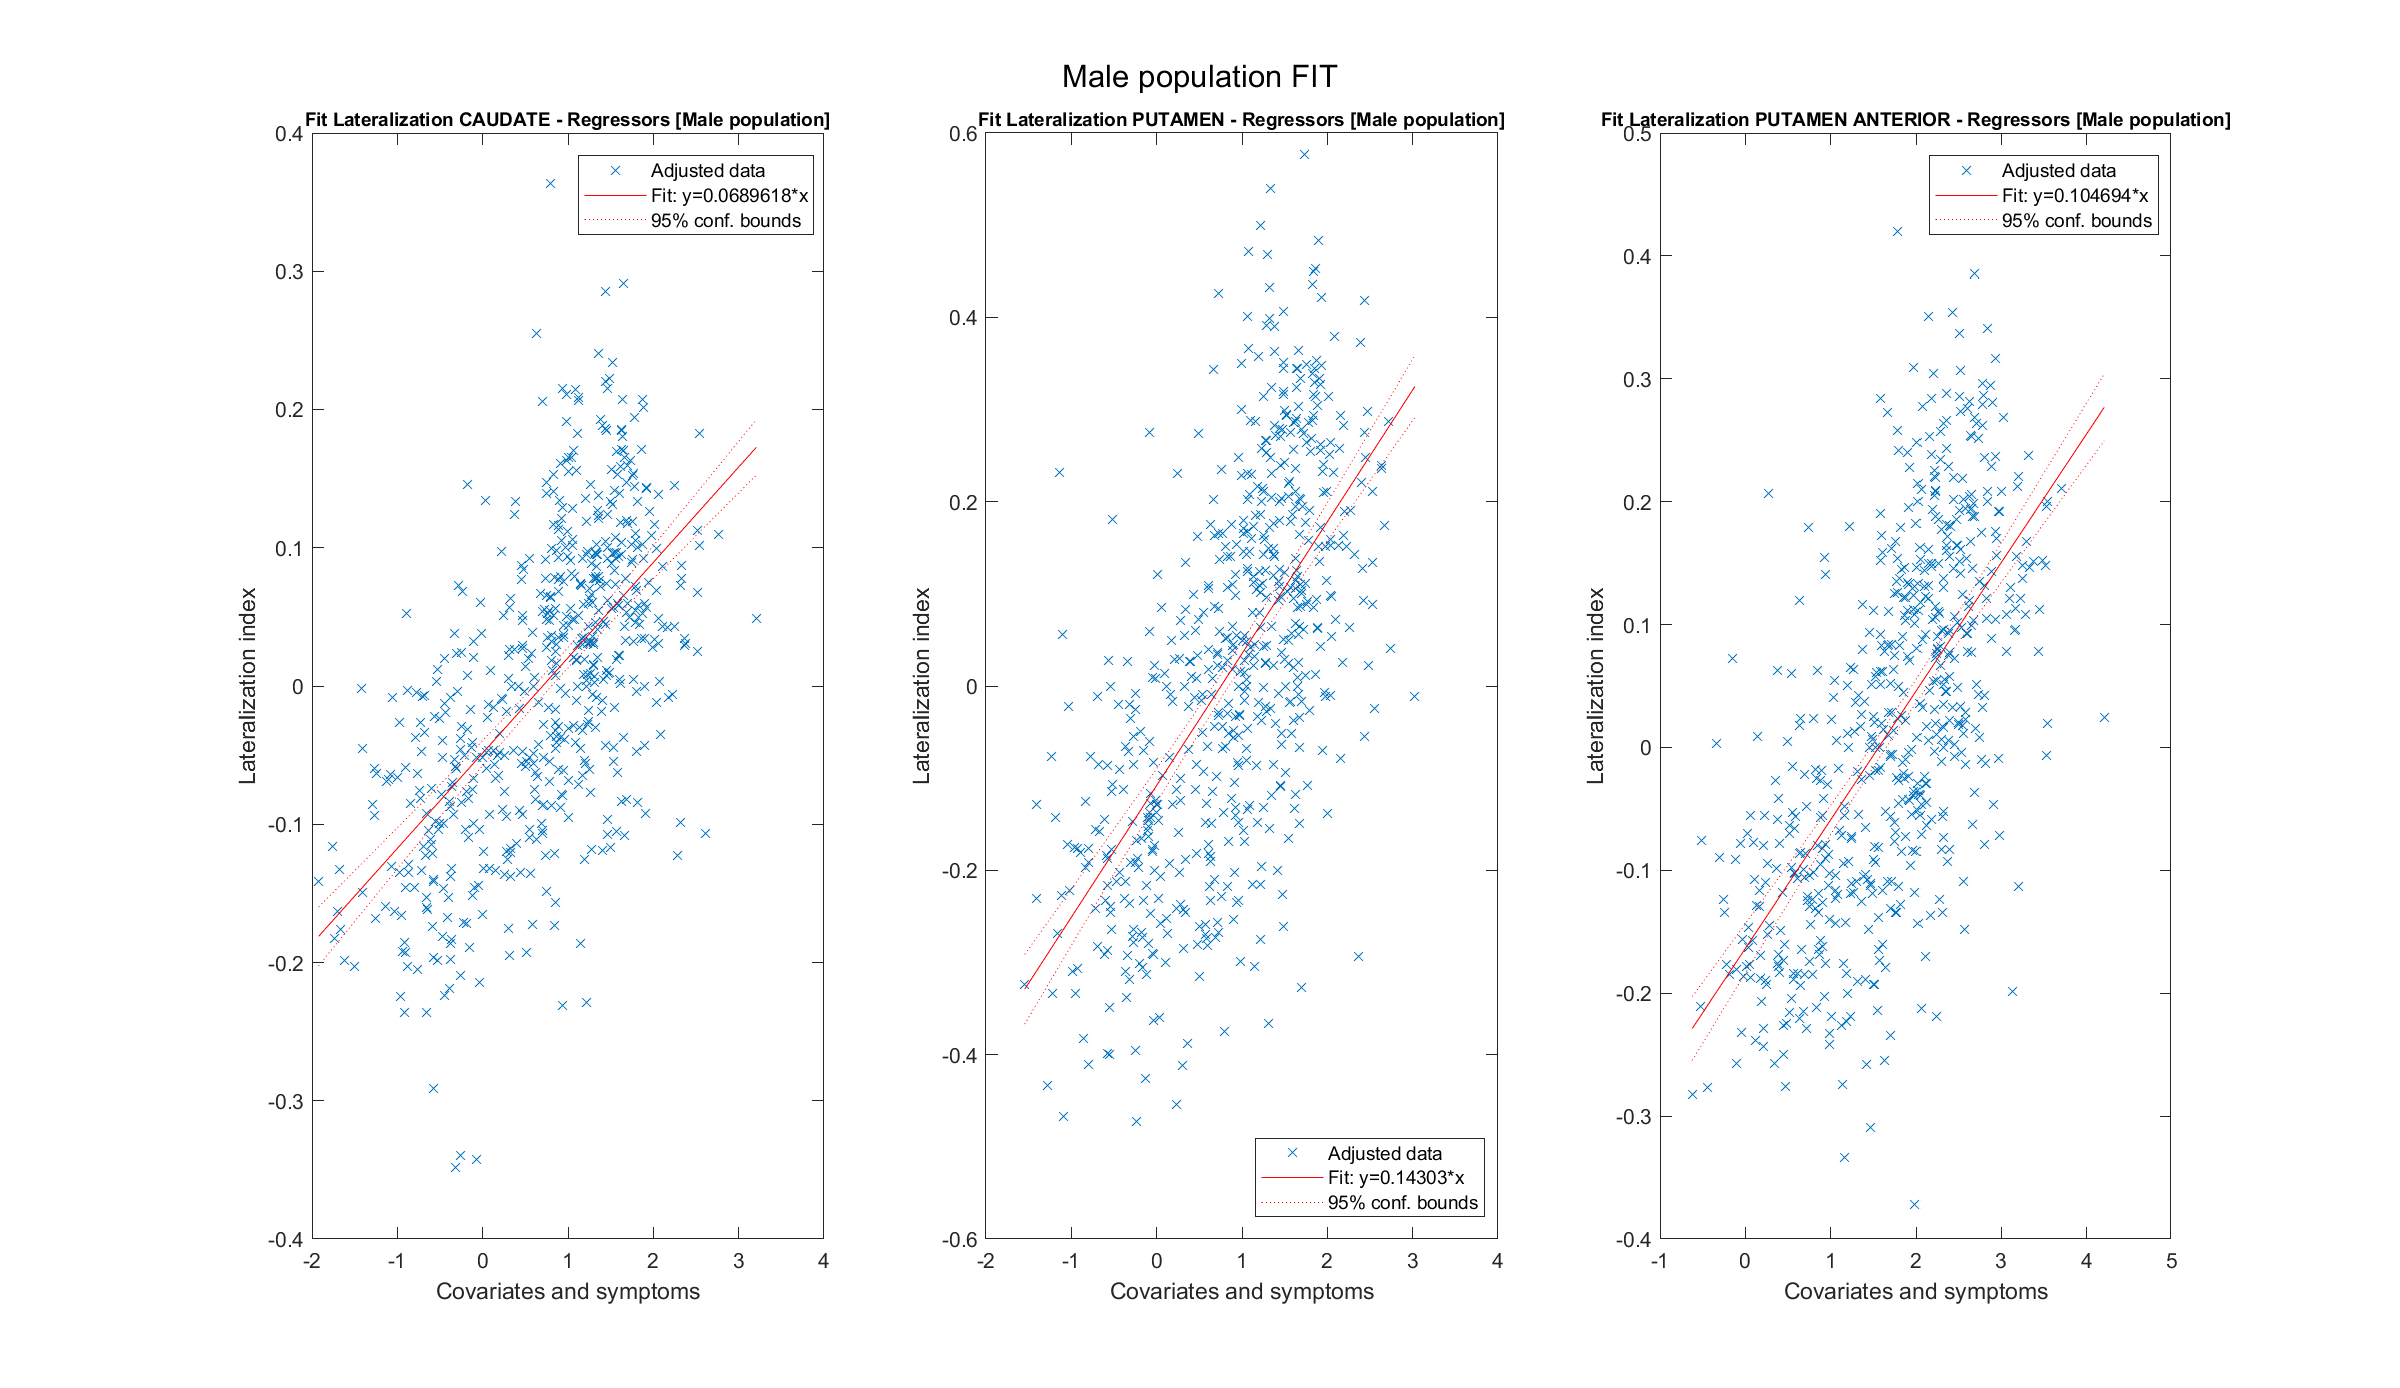
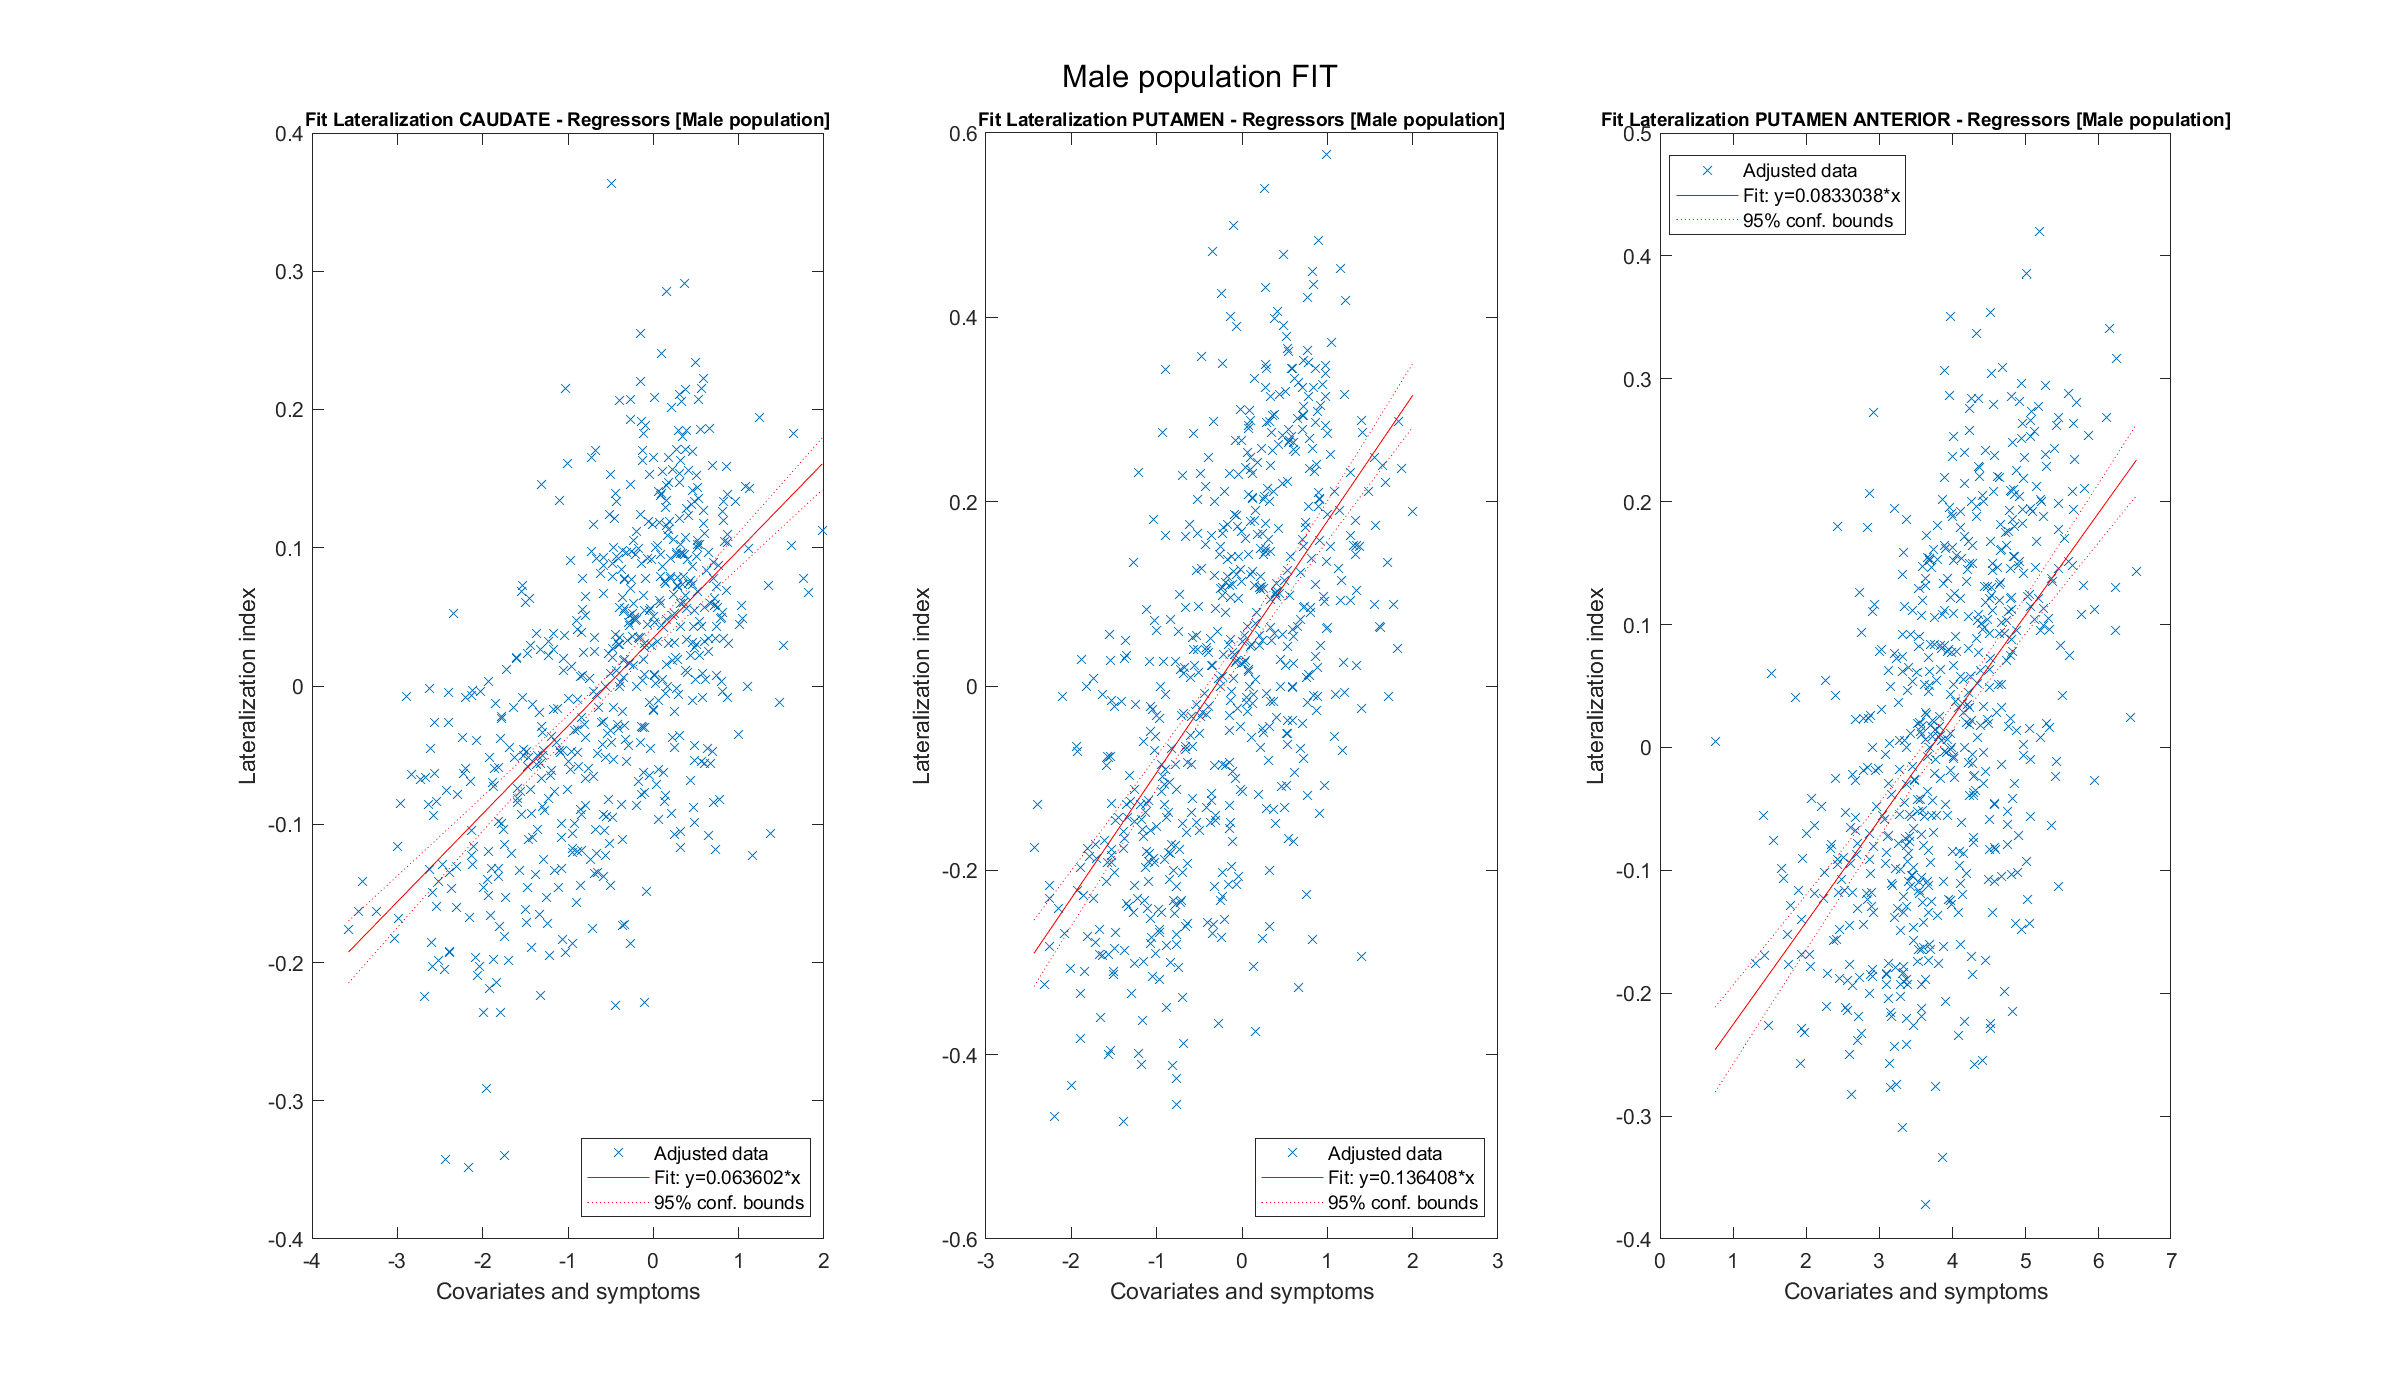
var specifiche per roi

diff --git a/hm_biomarkers_new_version.m b/hm_biomarkers_new_version.m
@@ -582,25 +582,28 @@ xticks(1:width(covariates_hc))
 xticklabels(covariates_hc.Properties.VariableNames)
 yticks(1:width(covariates_hc))
 yticklabels(covariates_hc.Properties.VariableNames)
-title("Correlation between lateralization and age, weight, height, MCATOT - HC")
+title("Correlation between lateralization and age, weight, height")
 ax = gca;
 ax.FontSize = 6;
 axis equal
+for i=1:3
+    covariates_to_save_hc.(ROIs_labels(i)) = [];
+end
 
-covariates_to_save_hc = [];
 for i =1:size(correlation.indirect.HC.R,1)
     for j = 1:size(correlation.indirect.HC.R,2)
-        if correlation.indirect.HC.p(i,j) < 0.05 && correlation.indirect.HC.R(i,j) > 0.75
-                if (j < (size(correlation.indirect.HC.R,1) -3)) && (i > (size(correlation.indirect.HC.R,1) -3)) 
+        if correlation.indirect.HC.p(i,j) < 0.05 && correlation.indirect.HC.R(i,j) > 0.5
+                if (j <= (size(correlation.indirect.HC.R,1) -3)) && (i > (size(correlation.indirect.HC.R,1) -3)) 
                     disp([covariates_hc.Properties.VariableNames{i}, ' correlated with ', covariates_hc.Properties.VariableNames{j}])
-                    covariates_to_save_hc = [covariates_to_save_hc,  convertCharsToStrings(covariates_hc.Properties.VariableNames{j})];
+                    covariates_to_save_hc.(ROIs_labels(i-3)) = [covariates_to_save_hc.(ROIs_labels(i-3)),  convertCharsToStrings(covariates_hc.Properties.VariableNames{j})];
                 end
        end
     end
 end
 
-covariates_to_save_hc = unique(covariates_to_save_hc);
-
+for i=1:3
+    covariates_to_save_hc.(ROIs_labels(i))  = unique(covariates_to_save_hc.(ROIs_labels(i)));
+end
 %%   - HC - symptoms data
 idx_symptoms = [34, 55, 94, 27:54, 61:93,158]; 
 symptoms_hc = data_hc(:, idx_symptoms); % age, height, weight, mcatot
@@ -623,19 +626,27 @@ ax = gca;
 ax.FontSize = 6;
 axis equal
 
-symptoms_to_save_hc = [];
+for i=1:3
+    symptoms_to_save_hc.(ROIs_labels(i)) = [];
+end
+
+
 for i =1:size(correlation.symptoms.HC.R,1)
     for j = 1:size(correlation.symptoms.HC.R,2)
-        if correlation.symptoms.HC.p(i,j) < 0.05 && correlation.symptoms.HC.R(i,j) > 0.75
-                if (j < (size(correlation.symptoms.HC.R,1) -3)) && (i > (size(correlation.symptoms.HC.R,1) -3)) 
+        if correlation.symptoms.HC.p(i,j) < 0.05 && correlation.symptoms.HC.R(i,j) > 0.5
+                if (j <= (size(correlation.symptoms.HC.R,1) -3)) && (i > (size(correlation.symptoms.HC.R,1) -3)) 
                     disp([symptoms_hc.Properties.VariableNames{i}, ' correlated with ', symptoms_hc.Properties.VariableNames{j}])
-                    symptoms_to_save_hc = [symptoms_to_save_hc,  convertCharsToStrings(symptoms_hc.Properties.VariableNames{j})];
+                    symptoms_to_save_hc.(ROIs_labels(size(correlation.symptoms.HC.R,1) -i+1)) = [symptoms_to_save_hc.(ROIs_labels(size(correlation.symptoms.HC.R,1) -i+1)),  convertCharsToStrings(symptoms_hc.Properties.VariableNames{j})];
                 end
        end
     end
 end
 
-symptoms_to_save_hc = unique(symptoms_to_save_hc);
+for i=1:3
+    symptoms_to_save_hc.(ROIs_labels(i))  = unique(symptoms_to_save_hc.(ROIs_labels(i)));
+end
+
+
 
 %%  - PD - indirect data
 idx_tot = [idx_covariates,idx_symptoms];
@@ -659,19 +670,26 @@ ax = gca;
 ax.FontSize = 6;
 axis equal
 
-covariates_to_save_pd = [];
+for i=1:3
+    covariates_to_save_pd.(ROIs_labels(i)) = [];
+end
+
 for i =1:size(correlation.indirect.PD.R,1)
     for j = 1:size(correlation.indirect.PD.R,2)
-        if correlation.indirect.PD.p(i,j) < 0.05 && correlation.indirect.PD.R(i,j) > 0.75
+        if correlation.indirect.PD.p(i,j) < 0.05 && correlation.indirect.PD.R(i,j) > 0.5
                 if (j < (size(correlation.indirect.PD.R,1) -3)) && (i > (size(correlation.indirect.PD.R,1) -3)) 
                     disp([covariates_pd.Properties.VariableNames{i}, ' correlated with ', covariates_pd.Properties.VariableNames{j}])
-                    covariates_to_save_pd = [covariates_to_save_pd,  convertCharsToStrings(covariates_pd.Properties.VariableNames{j})];
+                    covariates_to_save_pd.(ROIs_labels(i-3)) = [covariates_to_save_pd.(ROIs_labels(i-3)),  convertCharsToStrings(covariates_pd.Properties.VariableNames{j})];
                 end
        end
     end
 end
 
-covariates_to_save_pd  = unique(covariates_to_save_pd);
+
+for i=1:3
+    covariates_to_save_pd.(ROIs_labels(i))  = unique(covariates_to_save_pd.(ROIs_labels(i)));
+end
+
 
 %%   - PD - symptoms data
 idx_symptoms = [34, 55, 94, 27:54, 61:93]; 
@@ -695,32 +713,45 @@ ax = gca;
 ax.FontSize = 6;
 axis equal
 
-symptoms_to_save_pd = [];
+for i=1:3
+    symptoms_to_save_pd.(ROIs_labels(i)) = [];
+end
+
 for i =1:size(correlation.symptoms.PD.R,1)
     for j = 1:size(correlation.symptoms.PD.R,2)
-        if correlation.symptoms.PD.p(i,j) < 0.05 && correlation.symptoms.PD.R(i,j) > 0.75
-                if (j < (size(correlation.symptoms.PD.R,1) -3)) && (i > (size(correlation.symptoms.PD.R,1) -3)) 
+        if correlation.symptoms.PD.p(i,j) < 0.05 && correlation.symptoms.PD.R(i,j) > 0.5
+                if (j <= (size(correlation.symptoms.PD.R,1) -3)) && (i > (size(correlation.symptoms.PD.R,1) -3)) 
                     disp([symptoms_pd.Properties.VariableNames{i}, ' correlated with ', symptoms_pd.Properties.VariableNames{j}])
-                    symptoms_to_save_pd = [symptoms_to_save_pd,  convertCharsToStrings(symptoms_pd.Properties.VariableNames{j})];
+                    symptoms_to_save_pd.(ROIs_labels(size(correlation.symptoms.HC.R,1) -i)) = [symptoms_to_save_pd.(ROIs_labels(size(correlation.symptoms.HC.R,1) -i)),  convertCharsToStrings(symptoms_pd.Properties.VariableNames{j})];
                 end
        end
     end
 end
 
-symptoms_to_save_pd = unique(symptoms_to_save_pd);
+
+for i=1:3
+    symptoms_to_save_pd.(ROIs_labels(i))  = unique(symptoms_to_save_pd.(ROIs_labels(i)));
+end
 
 %% LINEAR REGRESSION
 %% - HC
-symptoms_hc_array = table2array(symptoms_hc(:,contains(symptoms_hc.Properties.VariableNames,symptoms_to_save_hc)));
-covariates_hc_array = table2array(covariates_hc(:,contains(covariates_hc.Properties.VariableNames,covariates_to_save_hc)));
 
-regressors_hc_array = [covariates_hc_array,symptoms_hc_array];
+for i=1:3
+    symptoms_hc_array.(ROIs_labels(i)) = table2array(symptoms_hc(:,contains(symptoms_hc.Properties.VariableNames,symptoms_to_save_hc.(ROIs_labels(i)))));
+    try
+        covariates_hc_array.(ROIs_labels(i)) = table2array(covariates_hc(:,contains(covariates_hc.Properties.VariableNames,covariates_to_save_hc.(ROIs_labels(i)))));
+    catch
+        covariates_hc_array.(ROIs_labels(i)) = [];
+    end
+    regressors_hc_array.(ROIs_labels(i)) = [covariates_hc_array.(ROIs_labels(i)),symptoms_hc_array.(ROIs_labels(i))];
+
+end
 
 figure(25)
 set(gcf, 'Position', get(0, 'Screensize'));
 
 subplot(131)
-model_caud_hc = fitlm(regressors_hc_array,NOT_ABS.LATERALIZATION_coeff.CAUDATE.HC);
+model_caud_hc = fitlm(regressors_hc_array.CAUDATE,NOT_ABS.LATERALIZATION_coeff.CAUDATE.HC);
 plot(model_caud_hc)
 % xlim([-0.05 0.05])
 % ylim([-0.3 0.2])
@@ -729,7 +760,7 @@ ylabel('Lateralization index')
 title('Caudate linear fit - HC')
 
 subplot(132)
-model_put_hc = fitlm(regressors_hc_array,NOT_ABS.LATERALIZATION_coeff.PUTAMEN.HC);
+model_put_hc = fitlm(regressors_hc_array.PUTAMEN,NOT_ABS.LATERALIZATION_coeff.PUTAMEN.HC);
 plot(model_put_hc)
 % xlim([-0.05 0.05])
 % ylim([-0.3 0.2])
@@ -738,7 +769,7 @@ ylabel('Lateralization index')
 title('Putamen linear fit - HC')
 
 subplot(133)
-model_put_ant_hc = fitlm(regressors_hc_array,NOT_ABS.LATERALIZATION_coeff.PUTAMEN_ANT.HC);
+model_put_ant_hc = fitlm(regressors_hc_array.PUTAMEN_ANT,NOT_ABS.LATERALIZATION_coeff.PUTAMEN_ANT.HC);
 plot(model_put_ant_hc)
 % xlim([-0.05 0.05])
 % ylim([-0.3 0.2])
@@ -756,16 +787,24 @@ anova_put_hc = anova(model_put_hc,'summary');
 anova_put_ant_hc =  anova(model_put_ant_hc,'summary');
 
 %% - PD
-symptoms_pd_array = table2array(symptoms_pd(:,contains(symptoms_pd.Properties.VariableNames,symptoms_to_save_pd)));
-covariates_pd_array = table2array(covariates_pd(:,contains(covariates_pd.Properties.VariableNames,covariates_to_save_hc)));
 
-regressors_pd_array = [covariates_pd_array,symptoms_pd_array];
+for i=1:3
+    symptoms_pd_array.(ROIs_labels(i)) = table2array(symptoms_pd(:,contains(symptoms_pd.Properties.VariableNames,symptoms_to_save_pd.(ROIs_labels(i)))));
+    try
+        covariates_pd_array.(ROIs_labels(i)) = table2array(covariates_pd(:,contains(covariates_pd.Properties.VariableNames,covariates_to_save_hc.(ROIs_labels(i)))));
+    catch
+        covariates_pd_array.(ROIs_labels(i)) = [];
+    end
+
+    regressors_pd_array.(ROIs_labels(i)) = [covariates_pd_array.(ROIs_labels(i)),symptoms_pd_array.(ROIs_labels(i))];
+
+end
 
 figure(26)
 set(gcf, 'Position', get(0, 'Screensize'));
 
 subplot(131)
-model_caud_pd = fitlm(regressors_pd_array,NOT_ABS.LATERALIZATION_coeff.CAUDATE.PD);
+model_caud_pd = fitlm(regressors_pd_array.CAUDATE,NOT_ABS.LATERALIZATION_coeff.CAUDATE.PD);
 plot(model_caud_pd)
 % xlim([-0.5 0.6])
 % ylim([-0.6 0.8])
@@ -774,7 +813,7 @@ ylabel('Lateralization index')
 title('Caudate linear fit - PD')
 
 subplot(132)
-model_put_pd = fitlm(regressors_pd_array,NOT_ABS.LATERALIZATION_coeff.PUTAMEN.PD);
+model_put_pd = fitlm(regressors_pd_array.PUTAMEN,NOT_ABS.LATERALIZATION_coeff.PUTAMEN.PD);
 plot(model_put_pd)
 % xlim([-0.5 0.6])
 % ylim([-0.6 0.8])
@@ -783,7 +822,7 @@ ylabel('Lateralization index')
 title('Putamen linear fit - PD')
 
 subplot(133)
-model_put_ant_pd = fitlm(regressors_pd_array,NOT_ABS.LATERALIZATION_coeff.PUTAMEN_ANT.PD);
+model_put_ant_pd = fitlm(regressors_pd_array.PUTAMEN_ANT,NOT_ABS.LATERALIZATION_coeff.PUTAMEN_ANT.PD);
 plot(model_put_ant_pd)
 % xlim([-0.5 0.6])
 % ylim([-0.6 0.8])
@@ -814,14 +853,15 @@ female_lateralization_coeff.PUTAMEN = NOT_ABS.LATERALIZATION_coeff.PUTAMEN.PD(id
 male_lateralization_coeff.PUTAMEN_ANT = NOT_ABS.LATERALIZATION_coeff.PUTAMEN_ANT.PD(idx_male_population,:);
 female_lateralization_coeff.PUTAMEN_ANT = NOT_ABS.LATERALIZATION_coeff.PUTAMEN_ANT.PD(idx_female_population,:);
 
-regressors_male_array = regressors_pd_array(idx_male_population,:);
-regressors_female_array = regressors_pd_array(idx_female_population,:);
-
+for i=1:3
+    regressors_male_array.(ROIs_labels(i)) = regressors_pd_array.(ROIs_labels(i))(idx_male_population,:);
+    regressors_female_array.(ROIs_labels(i)) = regressors_pd_array.(ROIs_labels(i))(idx_female_population,:);
+end
 
 % Male fit
-model_caud_male = fitlm(regressors_male_array,male_lateralization_coeff.CAUDATE);
-model_put_male = fitlm(regressors_male_array,male_lateralization_coeff.PUTAMEN);
-model_put_ant_male = fitlm(regressors_male_array,male_lateralization_coeff.PUTAMEN_ANT);
+model_caud_male = fitlm(regressors_male_array.CAUDATE,male_lateralization_coeff.CAUDATE);
+model_put_male = fitlm(regressors_male_array.PUTAMEN,male_lateralization_coeff.PUTAMEN);
+model_put_ant_male = fitlm(regressors_male_array.PUTAMEN_ANT,male_lateralization_coeff.PUTAMEN_ANT);
 
 figure(27)
 set(gcf, 'Position', get(0, 'Screensize'));
@@ -847,13 +887,13 @@ set(t, 'FontSize', 9)
 
 sgtitle('Male population FIT')
 saveas(figure(27), "fit_covariates_male.png", "png")
-
+clear t
 
 % Female fit
 
-model_caud_female = fitlm(regressors_female_array,female_lateralization_coeff.CAUDATE);
-model_put_female = fitlm(regressors_female_array,female_lateralization_coeff.PUTAMEN);
-model_put_ant_female = fitlm(regressors_female_array,female_lateralization_coeff.PUTAMEN_ANT);
+model_caud_female = fitlm(regressors_female_array.CAUDATE,female_lateralization_coeff.CAUDATE);
+model_put_female = fitlm(regressors_female_array.PUTAMEN,female_lateralization_coeff.PUTAMEN);
+model_put_ant_female = fitlm(regressors_female_array.PUTAMEN_ANT,female_lateralization_coeff.PUTAMEN_ANT);
 
 figure(28)
 set(gcf, 'Position', get(0, 'Screensize'));
@@ -882,6 +922,7 @@ sgtitle('Female population FIT')
 
 saveas(figure(28), "fit_covariates_female.png", "png")
 
+clear t
 
 
 %% SIMPTOMS LATERALITY INDEX
@@ -933,35 +974,35 @@ saveas(figure(27), "fit asimmetry index.png", "png")
 
 
 
-%% AGE
-age_pd = fitlm(data_pd.ENROLL_AGE,NOT_ABS.LATERALIZATION_coeff.CAUDATE.PD);
-age_hc = fitlm(data_hc.ENROLL_AGE,NOT_ABS.LATERALIZATION_coeff.CAUDATE.HC);
-
-figure
-plot(age_pd)
-figure
-plot(age_hc)
-
-
-%% WEIGHT
-weight_pd = fitlm(data_pd.WGTKG,NOT_ABS.LATERALIZATION_coeff.CAUDATE.PD);
-weight_hc = fitlm(data_hc.WGTKG,NOT_ABS.LATERALIZATION_coeff.CAUDATE.HC);
-
-figure
-plot(weight_pd)
-figure
-plot(weight_hc)
-
-%% MCATOT
-
-mcatot_pd = fitlm(data_pd.MCATOT,NOT_ABS.LATERALIZATION_coeff.CAUDATE.PD);
-mcatot_hc = fitlm(data_hc.MCATOT,NOT_ABS.LATERALIZATION_coeff.CAUDATE.HC);
-
-figure
-plot(mcatot_hc)
-
-figure
-plot(mcatot_pd)
+% %% AGE
+% age_pd = fitlm(data_pd.ENROLL_AGE,NOT_ABS.LATERALIZATION_coeff.CAUDATE.PD);
+% age_hc = fitlm(data_hc.ENROLL_AGE,NOT_ABS.LATERALIZATION_coeff.CAUDATE.HC);
+% 
+% figure
+% plot(age_pd)
+% figure
+% plot(age_hc)
+% 
+% 
+% %% WEIGHT
+% weight_pd = fitlm(data_pd.WGTKG,NOT_ABS.LATERALIZATION_coeff.CAUDATE.PD);
+% weight_hc = fitlm(data_hc.WGTKG,NOT_ABS.LATERALIZATION_coeff.CAUDATE.HC);
+% 
+% figure
+% plot(weight_pd)
+% figure
+% plot(weight_hc)
+% 
+% %% MCATOT
+% 
+% mcatot_pd = fitlm(data_pd.MCATOT,NOT_ABS.LATERALIZATION_coeff.CAUDATE.PD);
+% mcatot_hc = fitlm(data_hc.MCATOT,NOT_ABS.LATERALIZATION_coeff.CAUDATE.HC);
+% 
+% figure
+% plot(mcatot_hc)
+% 
+% figure
+% plot(mcatot_pd)
 
 
 
